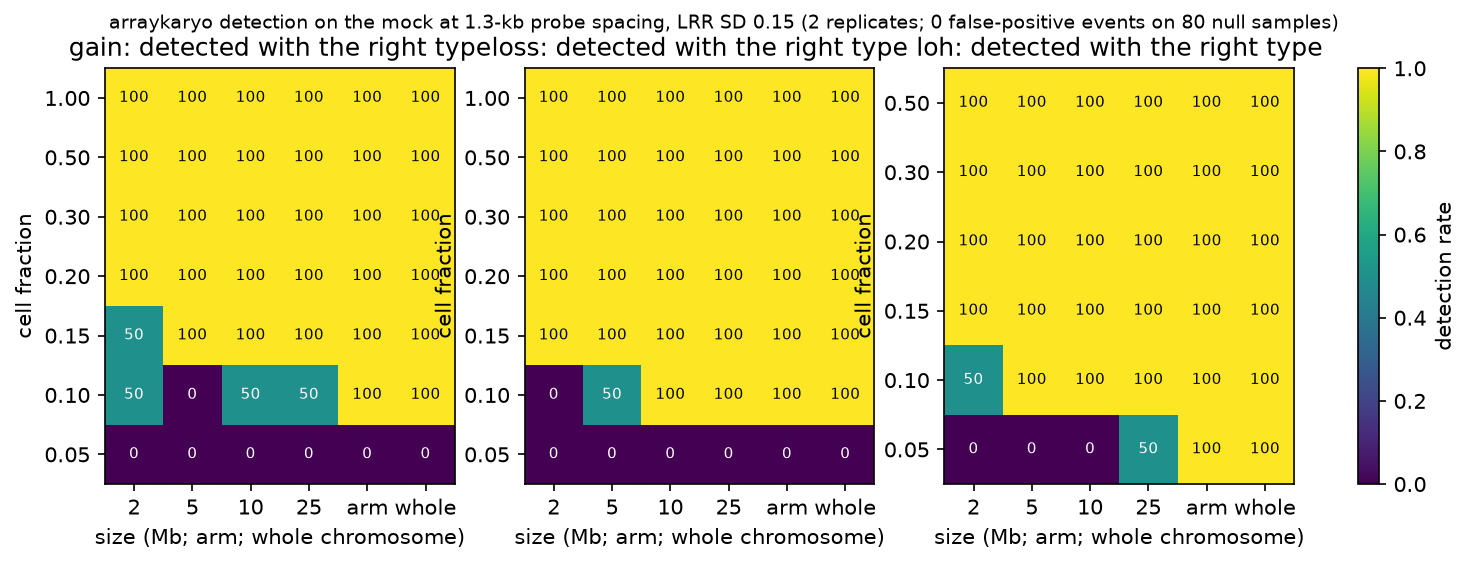
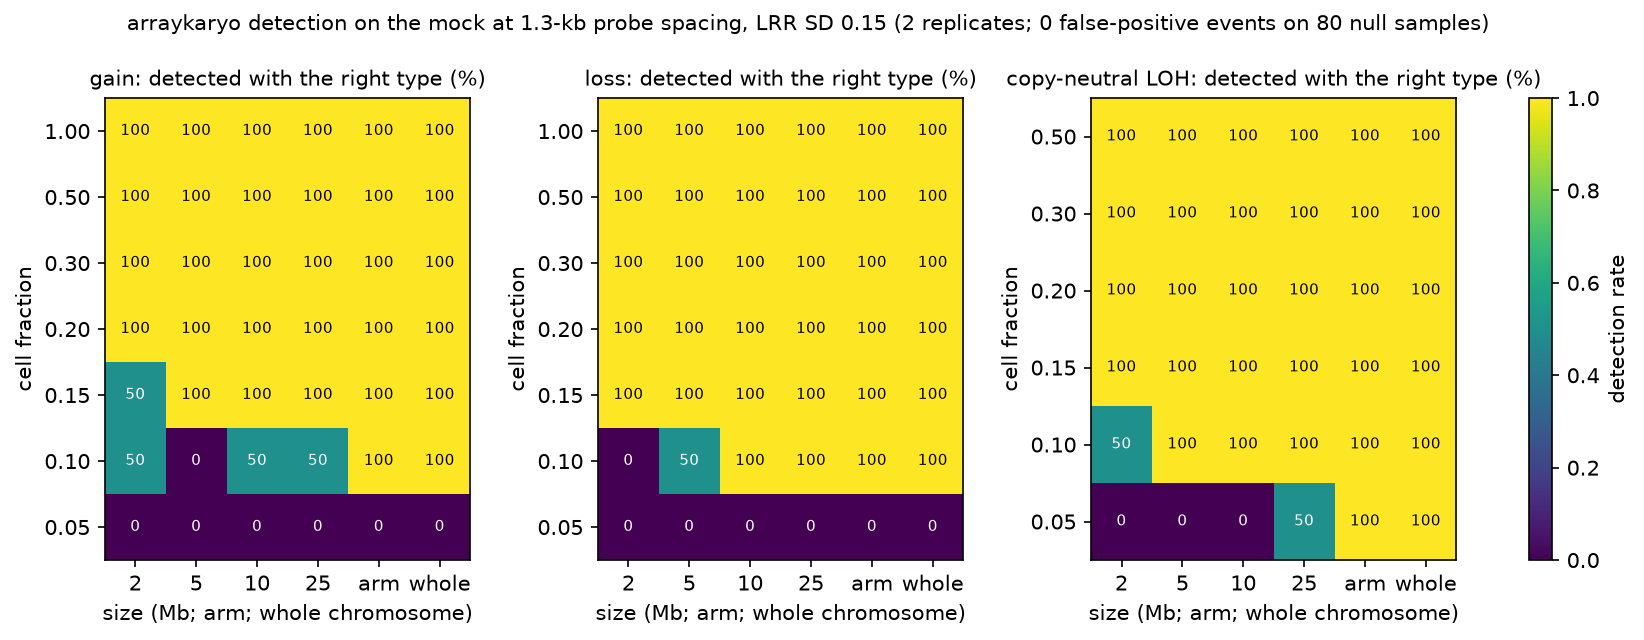
docs/example: the example's quality, sex-chromosome and pedigree results (0.5.2); the calibration figure's layout

Changed region(s): [[0.0, 0.0, 1.0, 0.9947]]

diff --git a/scripts/calibrate.py b/scripts/calibrate.py
@@ -65,6 +65,7 @@ def main():
     ap.add_argument("--replicates", type=int, default=2)
     ap.add_argument("--threads", type=int, default=8)
     ap.add_argument("--keep", action="store_true", help="keep the work directory")
+    ap.add_argument("--figure-only", action="store_true", help="redraw calibration.png and calibration.md from an existing calibration.tsv under --out")
     a = ap.parse_args()
     from arraykaryo.genome import load_genome
     G = load_genome("chm13")
@@ -72,7 +73,12 @@ def main():
     rows, fps = [], []
     t0 = time.time()
     exe = os.path.join(os.path.dirname(sys.executable), "arraykaryo")
-    for rep in range(a.replicates):
+    if a.figure_only:
+        for r in read_tsv(os.path.join(a.out, "calibration.tsv")):
+            rows.append(dict(r, f=float(r["f"]), detected=int(r["detected"]), type_ok=int(r["type_ok"]), class_ok=int(r["class_ok"]), f_err=float(r["f_err"]) if r["f_err"] != "NA" else np.nan, replicate=int(r["replicate"])))
+        fps = [dict(r, replicate=int(r["replicate"])) for r in read_tsv(os.path.join(a.out, "false_positives.tsv"))]
+        a.replicates = max(r["replicate"] for r in rows) + 1
+    for rep in range(0 if a.figure_only else a.replicates):
         wd = os.path.join(a.work, "rep%d" % rep)
         md, od = os.path.join(wd, "mock"), os.path.join(wd, "out")
         shutil.rmtree(wd, ignore_errors=True)
@@ -116,8 +122,9 @@ def main():
             shutil.rmtree(wd, ignore_errors=True)
     os.makedirs(a.out, exist_ok=True)
     cols = ["replicate", "kind", "f", "size", "chrom", "n_probes", "detected", "type_called", "span_called", "f_called", "f_lrr", "f_baf", "type_ok", "class_ok", "f_err", "other_calls"]
-    write_tsv(os.path.join(a.out, "calibration.tsv"), cols, rows, nd=4)
-    write_tsv(os.path.join(a.out, "false_positives.tsv"), ["replicate", "sample", "chrom", "start", "end", "type", "span", "f", "lrr", "d", "note"], fps)
+    if not a.figure_only:
+        write_tsv(os.path.join(a.out, "calibration.tsv"), cols, rows, nd=4)
+        write_tsv(os.path.join(a.out, "false_positives.tsv"), ["replicate", "sample", "chrom", "start", "end", "type", "span", "f", "lrr", "d", "note"], fps)
     # the tables
     md = ["# Calibration: the detection curve on the mock\n",
           "Mock cohorts at a probe spacing of %.1f kb (the example array's), per-sample LRR SD %.2f, BAF SD drawn in 0.03-0.05, %d replicate(s); every (kind, cell fraction, size) planted "
@@ -142,9 +149,10 @@ def main():
                 errs = [r["f_err"] for r in rr if np.isfinite(r["f_err"])]
                 cells.append("%.0f%% (%.0f%%/%.0f%%) err %s" % (100 * det, 100 * tok, 100 * cok, ("%.2f" % np.median(errs)) if errs else "-"))
             md.append("| %.2f | " % f + " | ".join(cells) + " |")
-    n_fp = sum(1 for x in fps if x["chrom"])
+    real_fp = [x for x in fps if x["chrom"] not in ("", "NA")]
+    n_fp = len(real_fp)
     n_null_samples = sum(int(x["sample"].split(": ")[1].rstrip(")")) for x in fps if x["sample"].startswith("(null"))
-    fp_samples = len({(x["replicate"], x["sample"]) for x in fps if x["chrom"]})
+    fp_samples = len({(x["replicate"], x["sample"]) for x in real_fp})
     md.append("\n## False positives\n\n%d events on %d of %d null samples (the brief asks for no event in 19 of 20): see false_positives.tsv.\n" % (n_fp, fp_samples, n_null_samples))
     with open(os.path.join(a.out, "calibration.md"), "w") as fh:
         fh.write("\n".join(md) + "\n")
@@ -152,7 +160,7 @@ def main():
     import matplotlib
     matplotlib.use("Agg")
     import matplotlib.pyplot as plt
-    fig, axes = plt.subplots(1, 3, figsize=(11, 3.6))
+    fig, axes = plt.subplots(1, 3, figsize=(12.5, 4.0), gridspec_kw=dict(wspace=0.35))
     for ax, kind in zip(axes, KINDS):
         fr = [f for f in FRACTIONS if not (kind == "loh" and f == 1.0)]
         M = np.full((len(fr), len(SIZES_MB)), np.nan)
@@ -165,13 +173,13 @@ def main():
         ax.set_xticks(range(len(SIZES_MB))), ax.set_xticklabels([str(s) for s in SIZES_MB])
         ax.set_yticks(range(len(fr))), ax.set_yticklabels(["%.2f" % f for f in fr])
         ax.set_xlabel("size (Mb; arm; whole chromosome)"), ax.set_ylabel("cell fraction")
-        ax.set_title("%s: detected with the right type" % kind)
+        ax.set_title({"gain": "gain", "loss": "loss", "loh": "copy-neutral LOH"}[kind] + ": detected with the right type (%)", fontsize=10)
         for i in range(len(fr)):
             for j in range(len(SIZES_MB)):
                 if np.isfinite(M[i, j]):
                     ax.text(j, i, "%.0f" % (100 * M[i, j]), ha="center", va="center", fontsize=7, color="white" if M[i, j] < 0.6 else "black")
     fig.colorbar(im, ax=axes, fraction=0.02, label="detection rate")
-    fig.suptitle("arraykaryo detection on the mock at %.1f-kb probe spacing, LRR SD %.2f (%d replicates; %d false-positive events on %d null samples)" % (a.density_kb, a.lrr_sd, a.replicates, n_fp, n_null_samples), fontsize=9)
+    fig.suptitle("arraykaryo detection on the mock at %.1f-kb probe spacing, LRR SD %.2f (%d replicates; %d false-positive events on %d null samples)" % (a.density_kb, a.lrr_sd, a.replicates, n_fp, n_null_samples), fontsize=10, y=1.02)
     fig.savefig(os.path.join(a.out, "calibration.png"), dpi=150, bbox_inches="tight")
     print("-> %s (%.0f s)" % (a.out, time.time() - t0))
 

diff --git a/docs/example/README.md b/docs/example/README.md
@@ -1,36 +1,68 @@
 # The public example: a 1000 Genomes genotyping-array export
 
 The example is a public 1000 Genomes Project cohort genotyped on an Illumina array, exported with `bcftools +gtc2vcf` to
-one BCF (2,141 samples, about 2.4 million probes, T2T-CHM13v2.0 coordinates in the copy used here; other projects are on
-GRCh38 or GRCh37, which arraykaryo recognises from the contig lengths). The data are not in this repository and no
-location is written here: point `ARRAY_BCF` at your copy. The known 1000 Genomes pedigree (the 3,202-sample pedigree
-table published by the IGSR) is the reference for the pedigree step; point `KNOWN_PED` at your copy of it.
+one BCF (2,141 samples, 2,421,634 probes, T2T-CHM13v2.0 coordinates in the copy used here; other projects are on GRCh38 or
+GRCh37, which arraykaryo recognises from the contig lengths). The data are not in this repository and no location is written
+here: point `ARRAY_BCF` at your copy. The known 1000 Genomes pedigree (the 3,500-sample table published by the IGSR, with
+its `Siblings`, `Second Order` and `Third Order` columns) is the reference for the pedigree step; point `KNOWN_PED` at your
+copy. A sample sheet with the reported sex (`sample`, `reported_sex`) was made from the same table.
 
 ```bash
 export ARRAY_BCF=/path/to/your/1000g_array_export.bcf       # indexed (.csi beside it)
-export KNOWN_PED=/path/to/your/1000g_pedigree.txt            # IGSR's 3,202-sample pedigree table
+export KNOWN_PED=/path/to/your/1000g_pedigree.txt            # the IGSR pedigree table
 arraykaryo inspect "$ARRAY_BCF" --json inspect.json
+arraykaryo run --bcf "$ARRAY_BCF" --out out/1000g --threads 8 --sample-sheet samples.tsv --pedigree "$KNOWN_PED"
 ```
 
 What `inspect` reports on this export, for the record: FORMAT GT, GQ, IGC, BAF, LRR, NORMX, NORMY, R, THETA, X, Y (only
 GT, LRR and BAF are used); INFO ALLELE_A/ALLELE_B, INTENSITY_ONLY, GC, GenTrain_Score, Cluster_Sep and the cluster
-statistics; diploid GT everywhere, including a male's X and Y; a no-call is `./.`; a missing LRR or BAF is `nan`; BAF is
-not clipped (values slightly below 0 or above 1 occur); on the Y a female's probes are `./.` with LRR around -3 to -5.
+statistics; diploid GT everywhere, including a man's X and Y; a no-call is `./.`; a missing LRR or BAF is `nan`; BAF is
+not clipped (values slightly below 0 or above 1 occur); on the Y a woman's probes are `./.` with LRR around -3 to -5 outside
+the pseudoautosomal regions, and the PAR probes of the Y carry diploid calls in both sexes.
 
-Once the pipeline exists (PROMPT.md), the example run is:
+## What was checked (version 0.5.2; the numbers below are from this run)
 
-```bash
-arraykaryo run --bcf "$ARRAY_BCF" --pedigree "$KNOWN_PED" --out out/1000g --threads 8
-```
+**Timing** (a laptop, 8 threads): extract 390 s (a 35-GB cache, 1.5 GB resident), qc 373 s, sex about 90 s, pedigree
+134 s, events about 25 minutes with figures for every flagged sample (the window tracks 546 s of it). `benchmarks/`.
 
-and the things to check in `out/1000g/report/index.html`:
+**Quality** (`qc/`). 1,788 of 2,141 samples pass with no flag; 17 fail hard (LRR SD above 0.30); flagged: 257 for a BAF SD
+above 0.06 (this platform's noisy tail: their LRR SD is 0.18 against 0.14 for the rest, and the BAF SD is continuous from
+its median of 0.038 to 0.084, so a fixed 0.06 flags 12% of this cohort - they are read, with the flag beside every call),
+130 for an LRR SD above 0.20, 15 for a wave factor above 0.05, 6 for an LRR mean beyond 0.1. Cohort medians: call rate
+0.997, LRR SD 0.149 raw and 0.142 corrected, BAF SD 0.038 (robust band SD 0.035), waviness factor -0.007; the correlation
+of LRR with the 1-Mb GC falls from a median absolute 0.02 (robust SD 0.18 across samples) to 0.007 (SD 0.004). Probes:
+2,044,352 of 2,421,634 carry no flag; 108,400 lose their genotype for a cluster separation under 0.3, 11,452 for a GenTrain
+score under 0.6, 11,576 for a call rate under 0.95, 9,907 as duplicate positions, 640 for a shifted heterozygous cluster,
+345 as non-SNV records, 39 for an LRR median beyond 0.3, 23,632 (the top 1%) for a noisy LRR; 221,583 fail Hardy-Weinberg at
+1e-10 in a first pass over every direction, which is the Wahlund effect of a cohort of many populations - only an excess of
+heterozygotes (a probe reading two loci) counts, and over the 1,623 unrelated passing samples 400 probes fail that way.
 
-- the pedigree inferred from the genotypes recovers the known 1000 Genomes trios and duos present on the array (for
-  instance the CEU trio NA12878 with NA12891 and NA12892, the YRI trio NA19240, the PUR trio HG00733, the CHS trio
-  HG00702, the MXL trio NA19675), with no undisclosed first-degree pair unexplained;
-- the sex-chromosome complement agrees with the pedigree's sex except where it names an aneuploidy or a mosaic, each
-  of which is listed with its evidence (X heterozygosity, X and Y levels);
-- the events found on samples that triokaryo read from whole-genome sequencing agree: HG01103 (mosaic losses on 2q and
-  14q) and NA12748 (a mosaic gain of 13q, a terminal loss of 21q), whose parents or children are also on the array;
-- lymphoblastoid-cell artefacts (gains of chromosome 12, losses of the X in women, other mosaics acquired in culture)
-  are listed as findings with their cell fraction, not treated as errors.
+**Sex chromosomes** (`sex/`). The X modes sit at -0.40 (one copy) and 0.01 (two copies): this platform compresses one
+copy to -0.40, not the -0.55 of the mock or PennCNV's -0.66, and the cohort's own scale is used. The Y modes sit at 0.01
+(present) and -3.92 (absent); 1,209 of the 1,918 non-PAR Y probes are Y-specific (the X-transposed region at 3-5 Mb of
+the CHM13 Y is heterozygous in men and called in women at LRR 0, and is excluded by the empirical test). The X and Y
+levels of men spread by 0.072 and 0.075 copies (robust SD), the X of women by 0.023, so the mosaic floors are 0.21, 0.22
+and 0.10 copies. Complements: XX 1,059, XY 1,033, 47,XXY 2, and the mosaics of lymphoblastoid culture: 12 men with a loss of
+Y in 23-85% of cells (two of them, with the Y gone from 78% and 85% of cells and one X without heterozygosity, read as
+45,X/46,XY, not as women), 29 women with an X lost in 15-53% of cells (median 24%) confirmed by the BAF split at X
+heterozygous calls, 6 women with an X gained in 13-45% of cells, 2 men with a Y gain read from the level alone (tentative:
+the Y level varies between Y haplogroups). Against the reported sex, 2,126 of 2,130 agree; the four that do not: two
+reported men are XX with fully heterozygous X's (HG01465, HG01896: an XX male or a sample swap), one reported man is 47,XXY
+(HG02372) and one reported woman is 47,XXY (HG01683: a sex called from X heterozygosity reads two X's as female).
+
+**Relatedness and families** (`pedigree/`). KING-robust kinship and IBS0 of every pair from 49,639 autosomal probes
+(call rate 0.98, MAF 0.05, one per 50 kb): 719 parent-offspring pairs, 26 full-sibling, 64 second-degree, 66 third-degree;
+331 trios and 47 duos assembled (the Mendelian-error floor of the trios is 0.00014; a grandfather in a father's place, at
+0.019, is rejected by the floor rule). The known trios the brief names are recovered: NA12878 with NA12891 and NA12892;
+NA19240 with NA19239 and NA19238; HG00733 with HG00731 and HG00732; NA19675 with NA19679 and NA19678 (and NA19677 with
+NA19676 and NA19675); HG01103 with HG01101 and HG01102. The brief's "HG00702 with HG00703 and HG00704" is in fact the
+three-generation family HG00656 and HG00657 -> HG00702, HG00701 and HG00702 -> HG00703, which is what the table says and
+what the genotypes find. NA12739, whose father NA12748 the brief names, is not on the array; NA12748 and NA12749 are.
+Against the IGSR table: 779 claimed relationships agree; 370 children, 12 fathers and 13 mothers of the table are not in
+the export; 7 full-sibling pairs and 22 second-degree pairs are found that the table does not list (the CHS samples
+HG00501, HG00512, HG00524 and their relatives, HG00578/HG00581/HG00635, HG02429/HG02479, NA18914-NA19240 and others: the
+cryptic relatedness of the 1000 Genomes collection), one pair listed as third order is full siblings (NA19331, NA19334),
+and one sample's sex differs between the IGSR table and the sample sheet (HG02300). No claimed parent is unrelated: the
+collection's pedigree holds.
+
+**Events** (`events/`, `report/`): see below.
